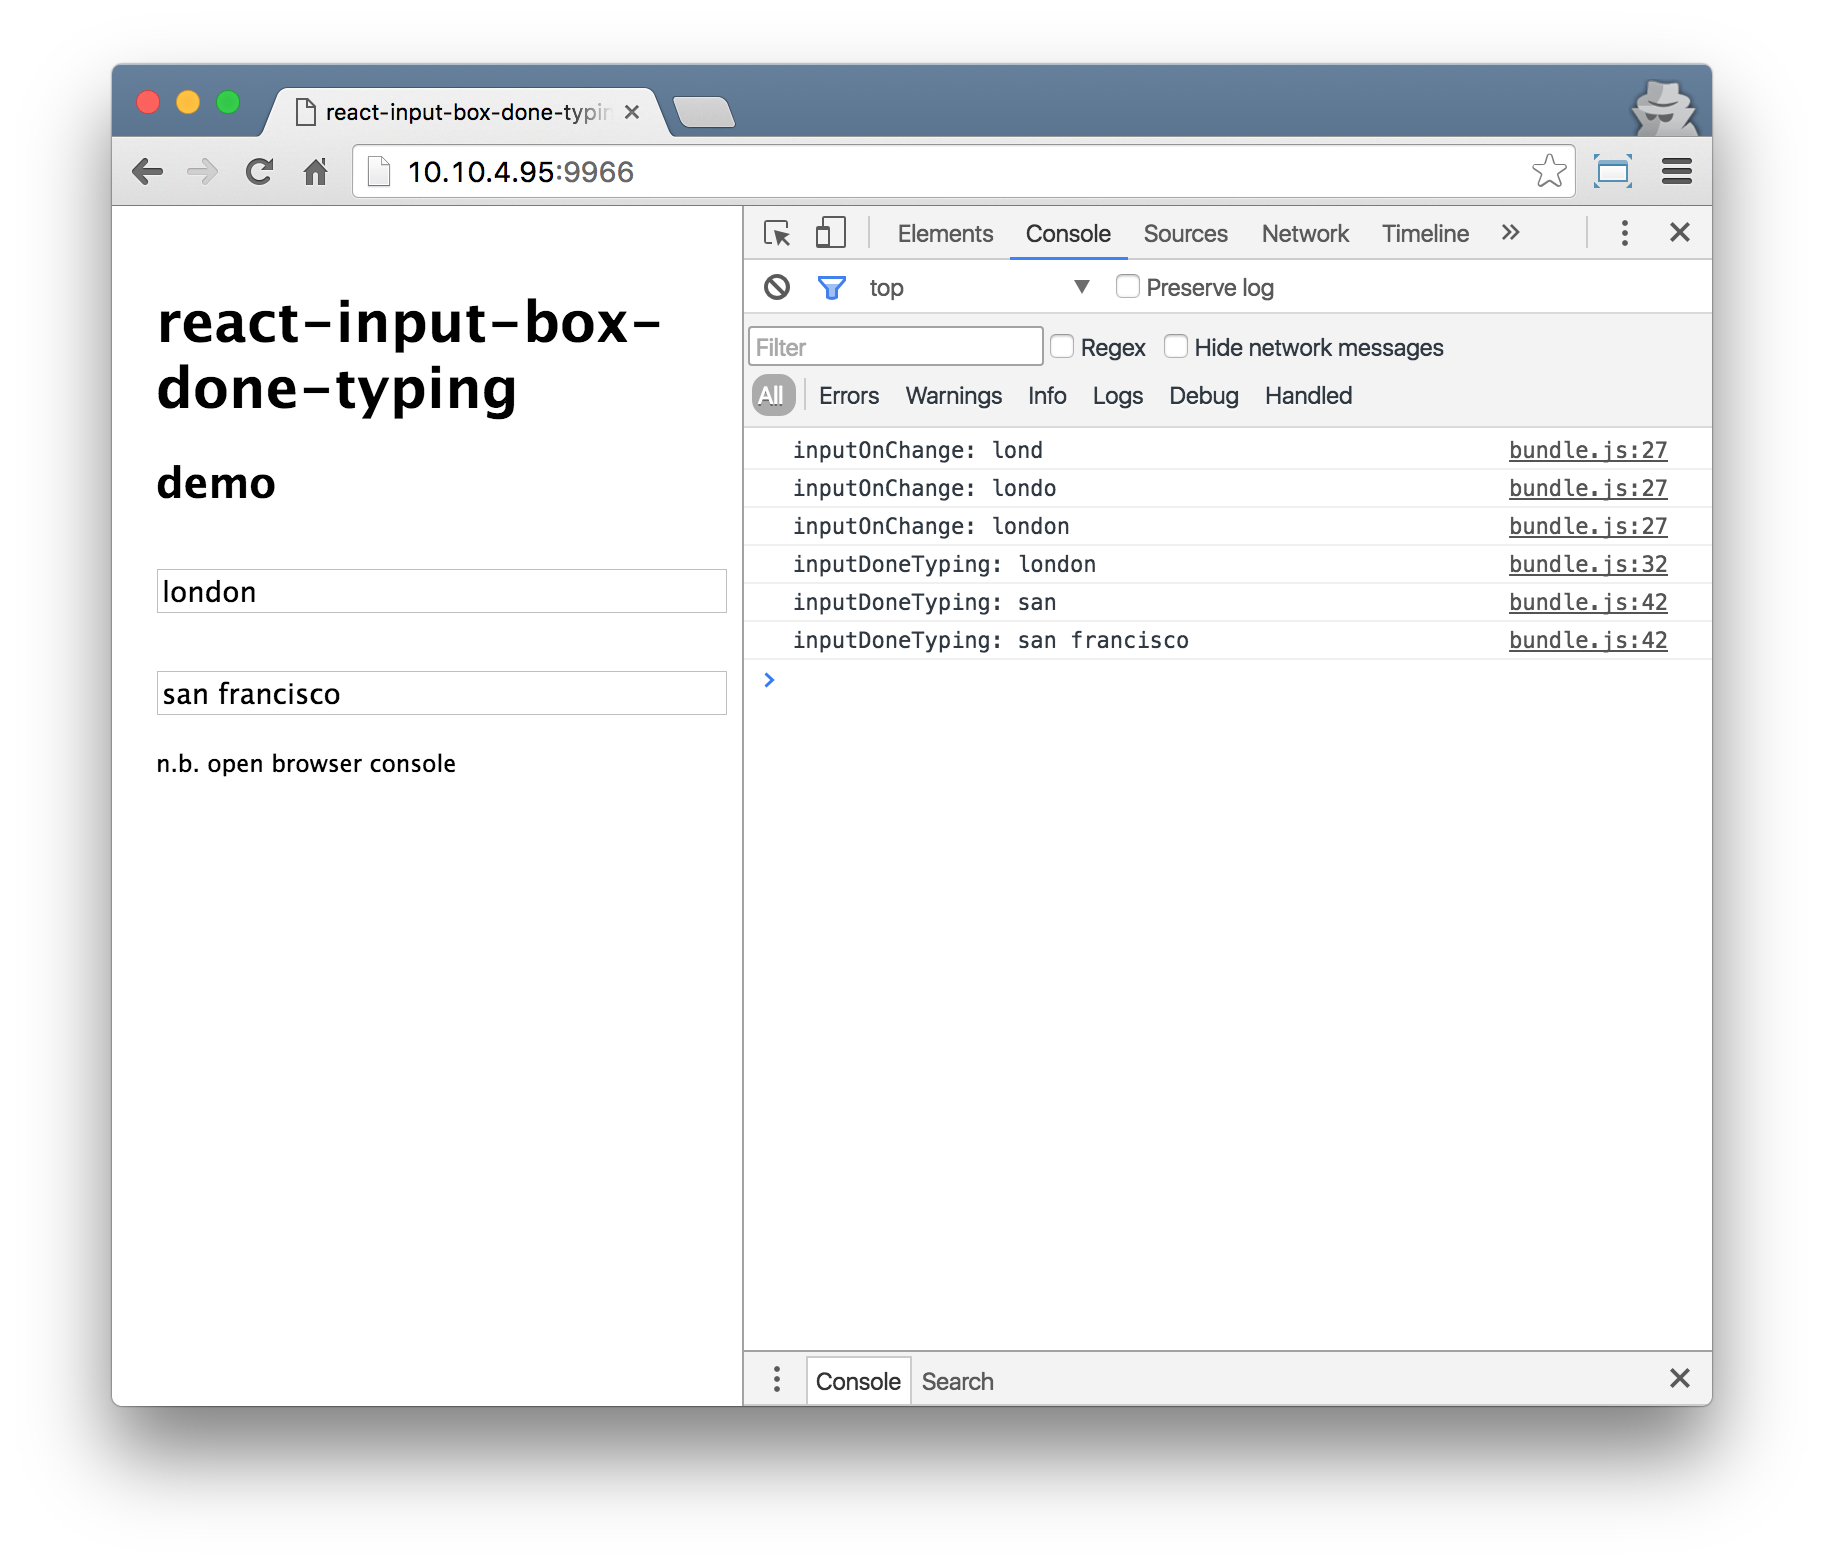
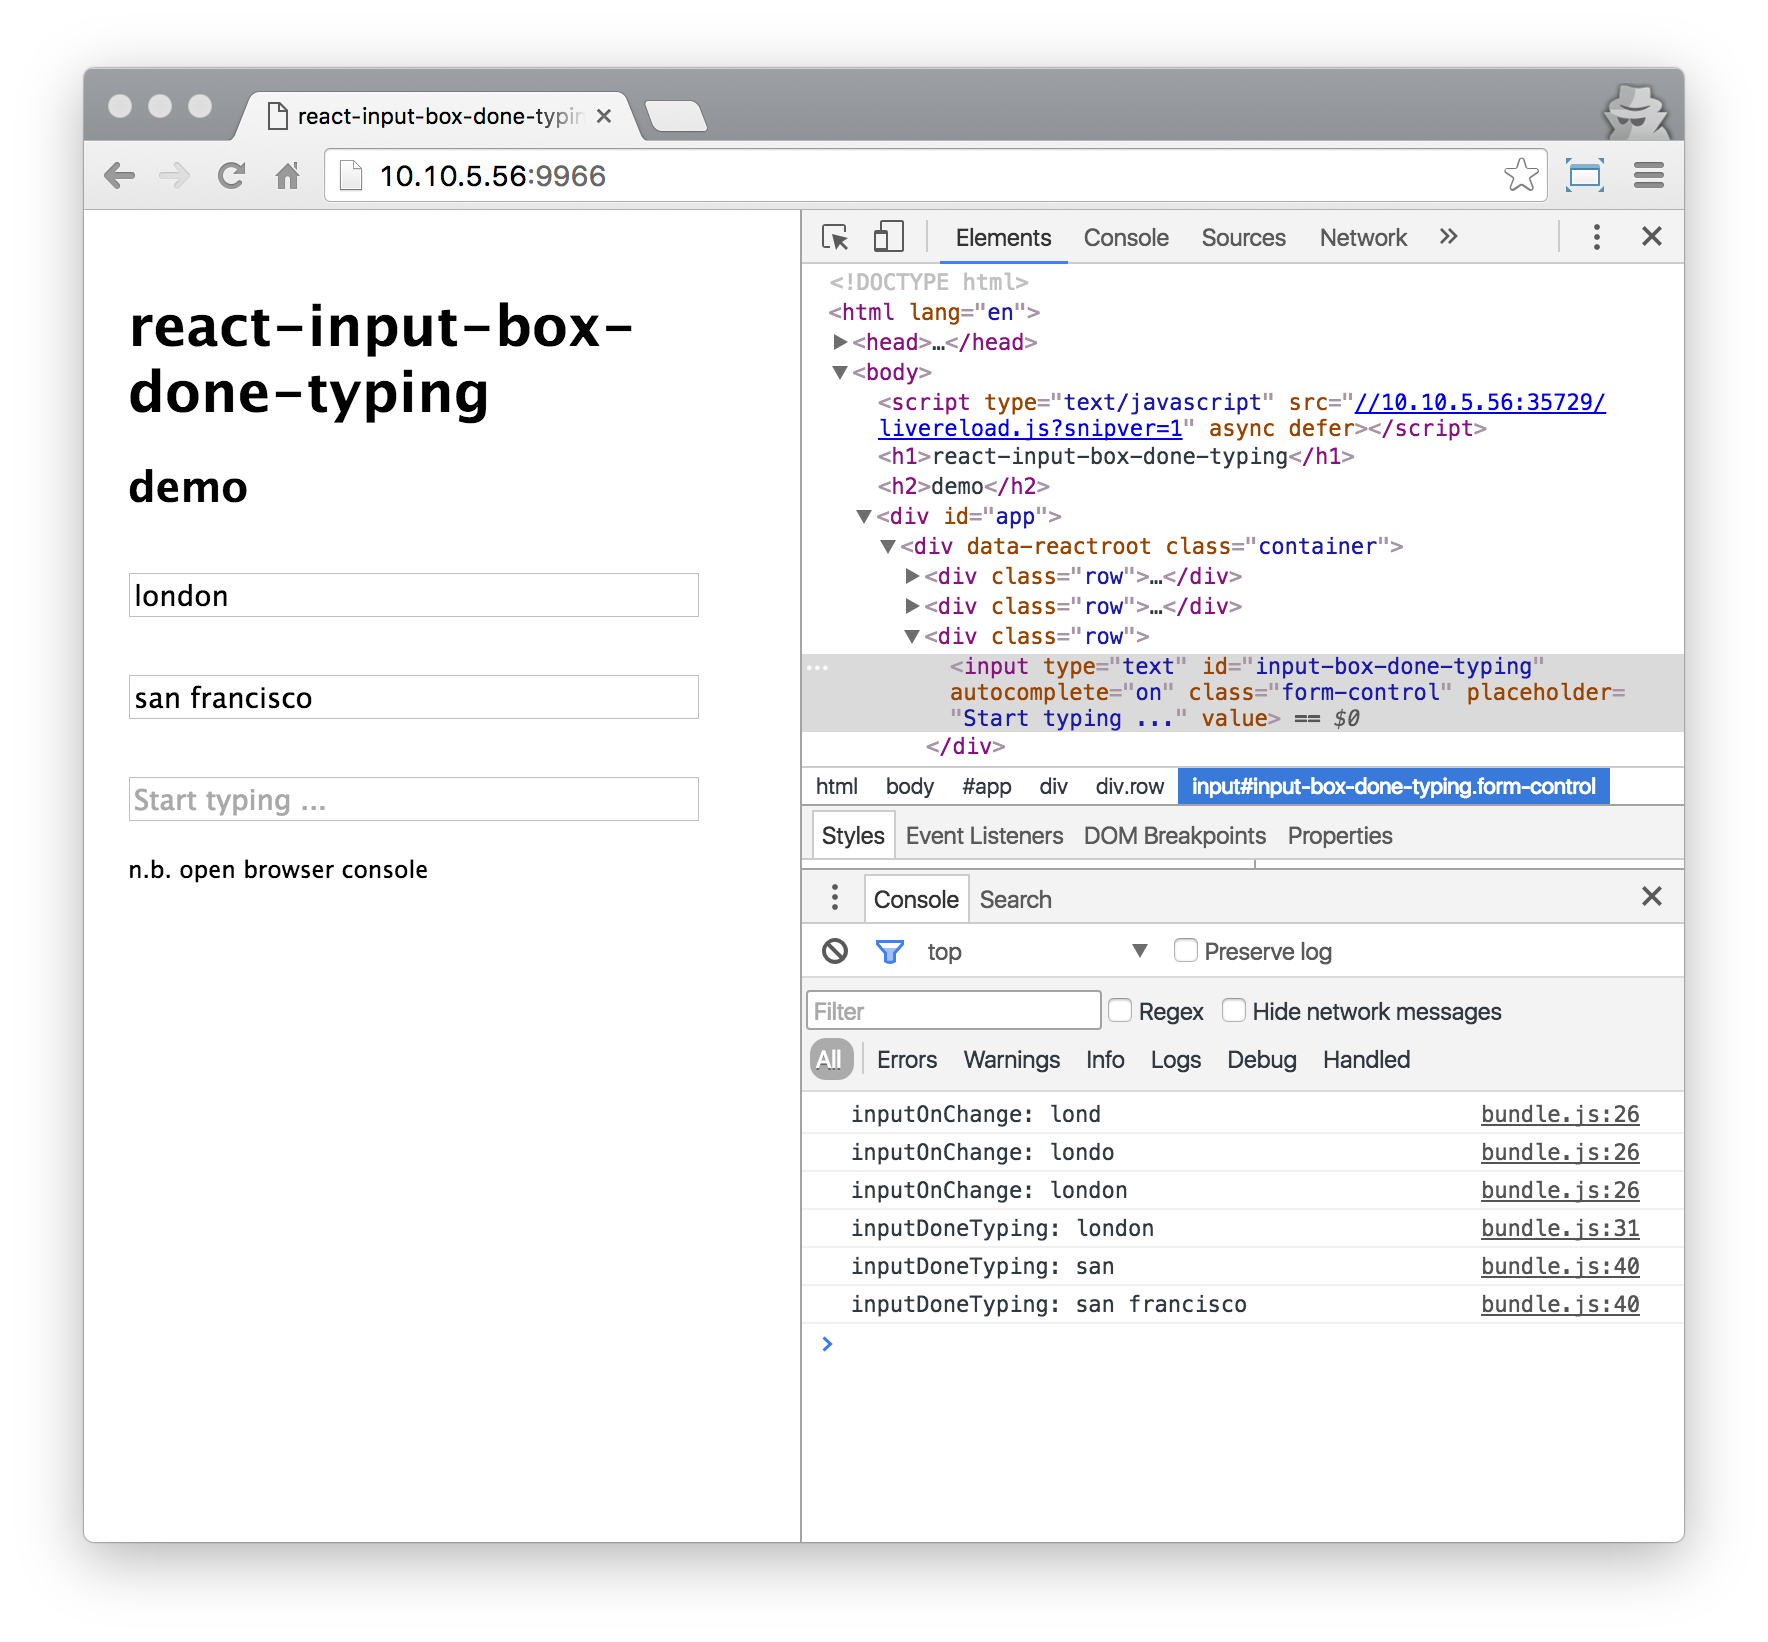
update demo

Changed region(s): [[0.0311, 0.0307, 0.9644, 0.9502], [0.6222, 0.5517, 0.8399, 0.6743]]

diff --git a/demo/index.js b/demo/index.js
@@ -7,8 +7,6 @@ const App = (props) => {
     <div className="container">
       <div className="row">
         <InputBoxDoneTyping
-          inputId="input-box-done-typing"
-          inputClassName="form-control"
           inputOnChange={(value) => { console.log('inputOnChange:', value); } }
           inputDefaultValue="lon"
           doneTypingInterval={2000}
@@ -17,8 +15,15 @@ const App = (props) => {
       </div>
       <div className="row">
         <InputBoxDoneTyping
+          inputDoneTyping={(value) => { console.log('inputDoneTyping:', value); } }
+          />
+      </div>
+      <div className="row">
+        <InputBoxDoneTyping
+          inputId="input-box-done-typing"
           inputClassName="form-control"
           inputPlaceholder="Start typing ..."
+          inputAutoComplete="on"
           inputDoneTyping={(value) => { console.log('inputDoneTyping:', value); } }
           />
       </div>
